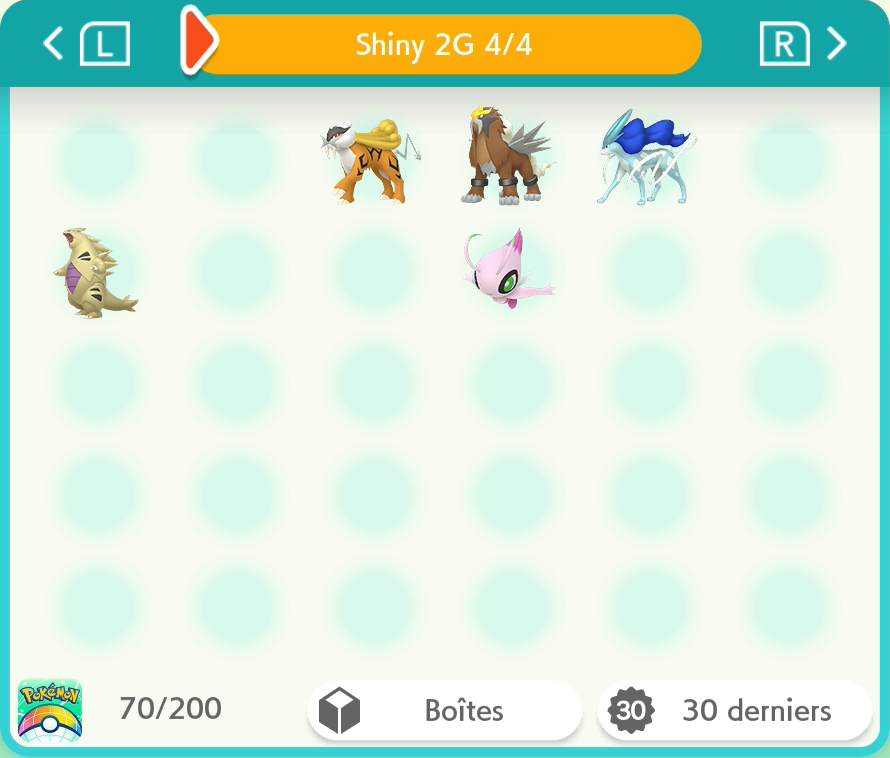
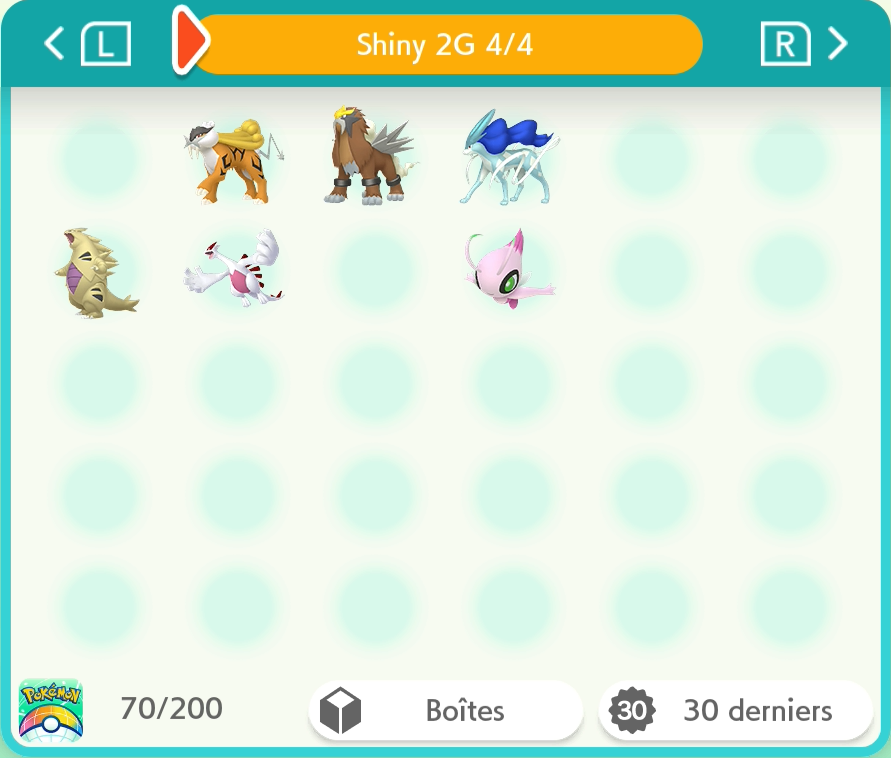
2G : Lugia

diff --git a/README.md b/README.md
@@ -2,13 +2,13 @@
 
 Pokémon-Elément-Sh -> <a href="https://www.pokemon-element-sh.fr/profil/karyno21" target="_blank">Karyno21</a>
 
-↓ Dernière Update le 21/09/2026 à 7h39 ↓
-### Dex National [273/999] +12
+↓ Dernière Update le 22/09/2026 à 21h15 ↓
+### Dex National [274/999] +13
 
 | Gen | Prog | Notes |
 |:--:|:--:|---|
 |1G|45/151|+3 Artikodin, Électhor & Sulfura|
-|2G|35/100|+4 Celebi, Raikou, Entei & Suicune|
+|2G|37/100|+5 Celebi, Raikou, Entei, Suicune & Lugia|
 |3G|22/135|+1 Spinda|
 |4G|20/107||
 |5G|29/154|+1 Genesect (JP Event)|
